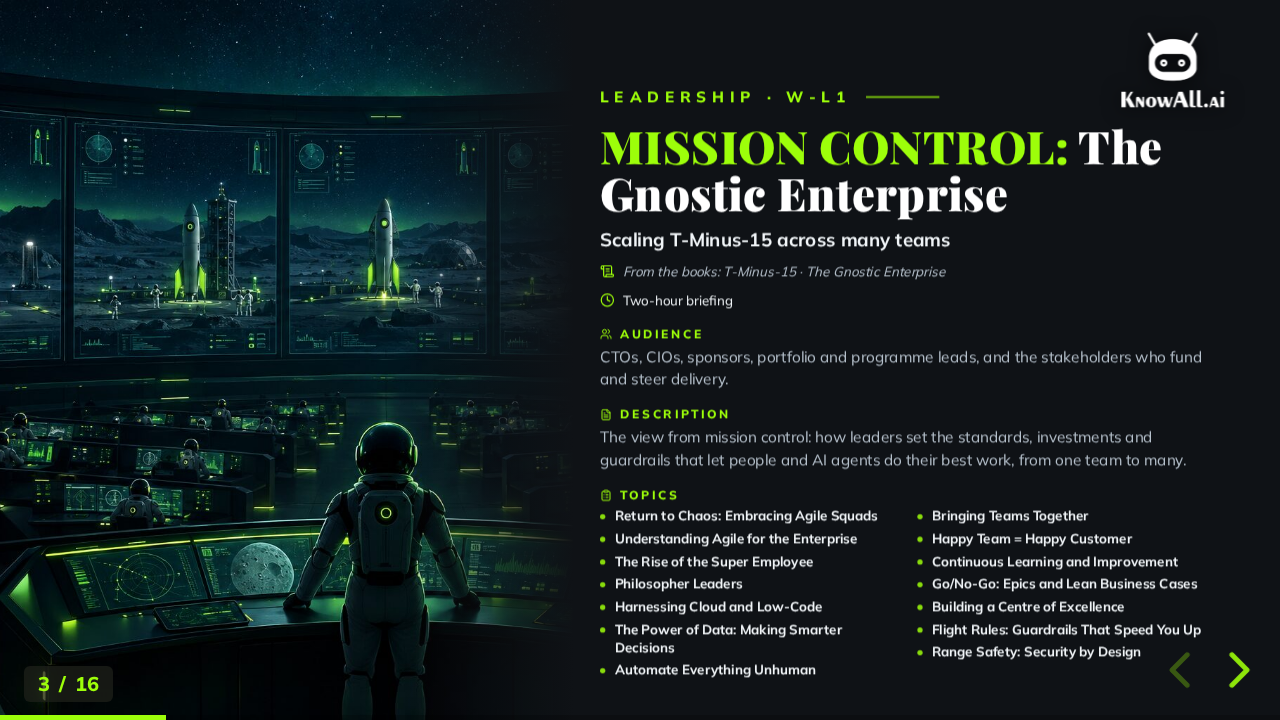
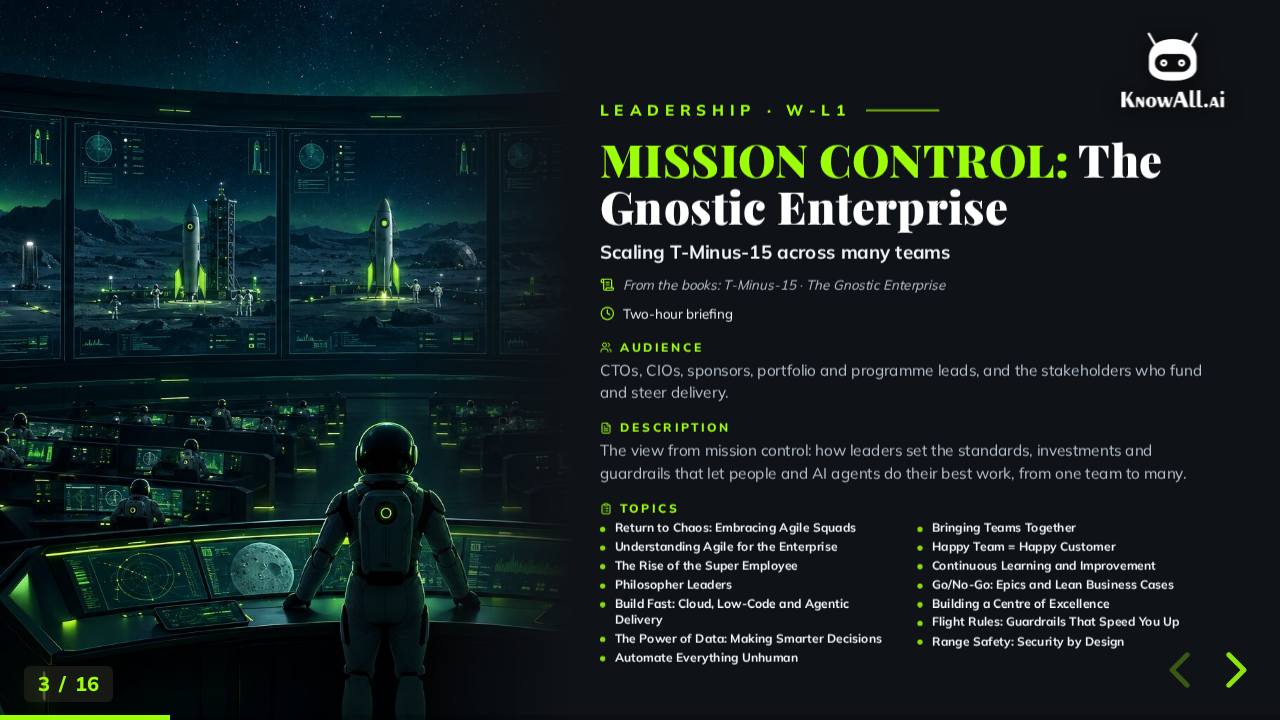
feat(presentations): chapter 6 is "Build Fast: Cloud, Low-Code and Agentic Delivery"
- W-L1 topic follows the book's retitled chapter 6; chat site index too.
- New optional `compact` flag on the workshop partial (smaller, tighter
  topic list), used on W-L1 so its fourteen topics clear the slide
  controls.

Changed region(s): [[0.4688, 0.1222, 0.9375, 0.9472], [0.7188, 0.7028, 0.9375, 0.9167], [0.9375, 0.9167, 1.0, 0.9472]]

diff --git a/app/api/chat/site-index.ts b/app/api/chat/site-index.ts
@@ -27,7 +27,7 @@ Presentations (https://www.knowall.ai/presentations/) — our slide decks, each 
 - AI Discovery Workshop (https://www.knowall.ai/presentations/ai-discovery.html): the one-day workshop, €2,000 fixed price. Pre-work surveys, an on-site workshop, one-to-one interviews, a value-versus-effort prioritisation (quick wins, major projects, fill-ins, reconsider) and a report with lean business cases. The ideal first step before a Proto-Sprint or project. Best for: "where should we start with AI?", what the Discovery Day involves and costs, how we decide which ideas are worth doing, building a business case.
 - CISP, the Continuous Improvement Service Plan (https://www.knowall.ai/presentations/cisp.html): ongoing support after go-live via pre-purchased time-and-material blocks, typically a twelve-month term, covering Microsoft, AI and custom solutions. Tiers: Gold (4-hour response, 1 business day; Strategic €1,250/day, delivery roles €950/day), Silver (8 hours, 2 business days; €1,200 / €900), Bronze (16 hours, 3 business days; €1,150 / €850). Delivery roles: Prepper, Designer, Engineer, Tester, Operator, Scrum Master. Best for: support after go-live, how a CISP is priced, SLA response times, day rates, buying a block of hours instead of a project.
 - The Purple Team (https://www.knowall.ai/presentations/purple-team.html): continuous AI security. The CVE flood and CISA's exploited list, frontier models on defence, Pennie, Ollie and Poppie, the attack, defend, fix, report loop, advisory-to-merged-fix patching, safe-by-design rules, the tools it works with, the Purple Team Portal, hosted or in-tenant or fully sovereign, and paying by real hours on a CISP after a Security Discovery. Best for: how the Purple Team works, is it safe, where it runs, how it is paid for.
-- T-Minus-15 Workshops (https://www.knowall.ai/presentations/tminus15-workshops.html): capability-building workshops that teach a client's own team to deliver the T-Minus-15 way, one slide per workshop with its audience, description and topics. Seven methodology workshops for the whole delivery team, one for each stage of the lifecycle and each built on the T-Minus-15 book: W-M0 Assemble: The Avengers of Agile (Agile, Scrum, Kanban, DevOps and assembling a cross-functional squad), W-M1 Plan: plotting the course (sprint goals, story point estimation, capacity, roadmaps and incremental releases), W-M2 Prep (decoding the client's wants and needs, the product backlog, epics, features and stories), W-M3 Design (crafting UX that doesn't suck, agentic design, brand guidelines), W-M4 Engineer (the art of engineering), W-M5 Test (raising the bar: acceptance criteria, test plans, automated, security, performance and user acceptance testing) and W-M6 Operate (shipping value: CI/CD, branching, infrastructure-as-code, release pipelines). Five technology workshops, in any order: W-T1 Azure DevOps, W-T2 Dataverse vs SharePoint vs SQL, W-T3 Power Platform including Code Apps (can run as a series), W-T4 CI/CD and W-T5 agentic coding with tools such as Claude Code. Each workshop is typically half a day; technology workshops can be followed by deeper dives on specific subjects. Plus a two-hour leadership briefing for CTOs, sponsors and stakeholders, W-L1 Mission Control: The Gnostic Enterprise (how leaders set the standards, investments and guardrails that let people and AI agents do their best work, from one team to many; one topic per chapter of The Gnostic Enterprise: agile squads, agile for the enterprise, the rise of the super employee, philosopher leaders, cloud and low-code, the power of data, automating everything unhuman, bringing teams together, happy team = happy customer, continuous learning, go/no-go: epics and lean business cases, building a Centre of Excellence, flight rules: guardrails that speed you up, and range safety: security by design), drawing on the T-Minus-15 book and The Gnostic Enterprise. Best for: training a client's team in our methodology, which workshop suits which role, what each workshop covers.
+- T-Minus-15 Workshops (https://www.knowall.ai/presentations/tminus15-workshops.html): capability-building workshops that teach a client's own team to deliver the T-Minus-15 way, one slide per workshop with its audience, description and topics. Seven methodology workshops for the whole delivery team, one for each stage of the lifecycle and each built on the T-Minus-15 book: W-M0 Assemble: The Avengers of Agile (Agile, Scrum, Kanban, DevOps and assembling a cross-functional squad), W-M1 Plan: plotting the course (sprint goals, story point estimation, capacity, roadmaps and incremental releases), W-M2 Prep (decoding the client's wants and needs, the product backlog, epics, features and stories), W-M3 Design (crafting UX that doesn't suck, agentic design, brand guidelines), W-M4 Engineer (the art of engineering), W-M5 Test (raising the bar: acceptance criteria, test plans, automated, security, performance and user acceptance testing) and W-M6 Operate (shipping value: CI/CD, branching, infrastructure-as-code, release pipelines). Five technology workshops, in any order: W-T1 Azure DevOps, W-T2 Dataverse vs SharePoint vs SQL, W-T3 Power Platform including Code Apps (can run as a series), W-T4 CI/CD and W-T5 agentic coding with tools such as Claude Code. Each workshop is typically half a day; technology workshops can be followed by deeper dives on specific subjects. Plus a two-hour leadership briefing for CTOs, sponsors and stakeholders, W-L1 Mission Control: The Gnostic Enterprise (how leaders set the standards, investments and guardrails that let people and AI agents do their best work, from one team to many; one topic per chapter of The Gnostic Enterprise: agile squads, agile for the enterprise, the rise of the super employee, philosopher leaders, build fast: cloud, low-code and agentic delivery, the power of data, automating everything unhuman, bringing teams together, happy team = happy customer, continuous learning, go/no-go: epics and lean business cases, building a Centre of Excellence, flight rules: guardrails that speed you up, and range safety: security by design), drawing on the T-Minus-15 book and The Gnostic Enterprise. Best for: training a client's team in our methodology, which workshop suits which role, what each workshop covers.
 Prices are in euros as shown in the decks; for a quote, invite the visitor to email you (sallie@knowall.ai) or book a Discovery Day. Every deck's closing slide gives [hello@knowall.ai](mailto:hello@knowall.ai) as the contact.
 
 Our other products and sites (one line each; link them when they fit):

diff --git a/public/presentations/tminus15-workshops.html b/public/presentations/tminus15-workshops.html
@@ -323,6 +323,12 @@
         color: var(--text);
       }
 
+      /* Long topic lists (e.g. a chapter per topic) stay clear of the controls. */
+      .ws--compact .ws-topics li {
+        font-size: 18px;
+        margin-bottom: 4px;
+      }
+
       .ws-topics li::before {
         content: '';
         position: absolute;
@@ -429,7 +435,7 @@
         </section>
 
         <!-- Slide 3: W-L1 -->
-        <section class="ws" role="region" aria-label="Slide 3 of 16: W-L1, Mission Control: The Gnostic Enterprise">
+        <section class="ws ws--compact" role="region" aria-label="Slide 3 of 16: W-L1, Mission Control: The Gnostic Enterprise">
           <div class="ws-art" style="--ws-art: url('images/tminus15-workshops/w-l1-mission-control.jpg'); --ws-focus: 30%" role="img" aria-label="A flight director standing in a vast moon-base mission-control hall, watching a wall of screens that each show a different launch pad and crew"></div>
           <img class="logo-light" src="/images/logo.png" alt="KnowAll.ai" />
           <div class="ws-copy">
@@ -455,7 +461,7 @@
                 <li>Understanding Agile for the Enterprise</li>
                 <li>The Rise of the Super Employee</li>
                 <li>Philosopher Leaders</li>
-                <li>Harnessing Cloud and Low-Code</li>
+                <li>Build Fast: Cloud, Low-Code and Agentic Delivery</li>
                 <li>The Power of Data: Making Smarter Decisions</li>
                 <li>Automate Everything Unhuman</li>
                 <li>Bringing Teams Together</li>

diff --git a/presentations-src/tminus15-workshops.html b/presentations-src/tminus15-workshops.html
@@ -299,6 +299,12 @@
         color: var(--text);
       }
 
+      /* Long topic lists (e.g. a chapter per topic) stay clear of the controls. */
+      .ws--compact .ws-topics li {
+        font-size: 18px;
+        margin-bottom: 4px;
+      }
+
       .ws-topics li::before {
         content: '';
         position: absolute;
@@ -420,12 +426,13 @@
           "audience": "CTOs, CIOs, sponsors, portfolio and programme leads, and the stakeholders who fund and steer delivery.",
           "description": "The view from mission control: how leaders set the standards, investments and guardrails that let people and AI agents do their best work, from one team to many.",
           "columns": 2,
+          "compact": true,
           "topics": [
             "Return to Chaos: Embracing Agile Squads",
             "Understanding Agile for the Enterprise",
             "The Rise of the Super Employee",
             "Philosopher Leaders",
-            "Harnessing Cloud and Low-Code",
+            "Build Fast: Cloud, Low-Code and Agentic Delivery",
             "The Power of Data: Making Smarter Decisions",
             "Automate Everything Unhuman",
             "Bringing Teams Together",
